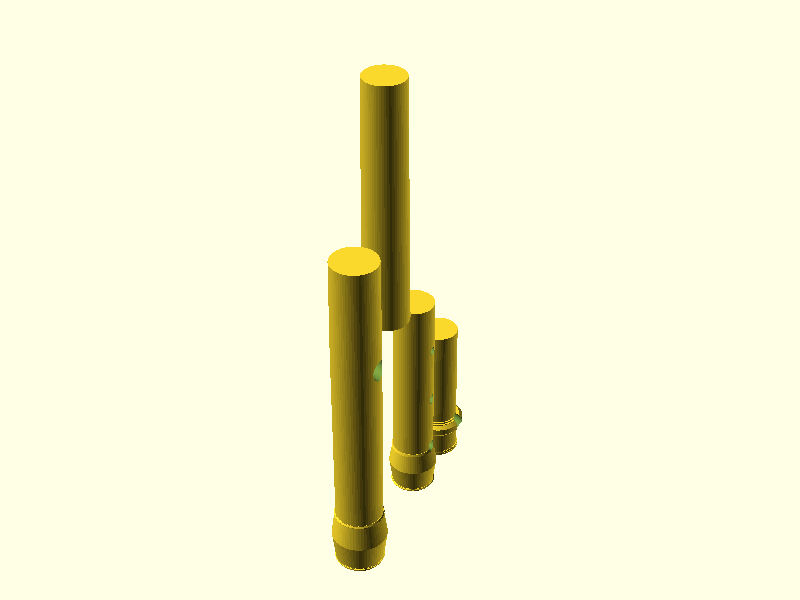
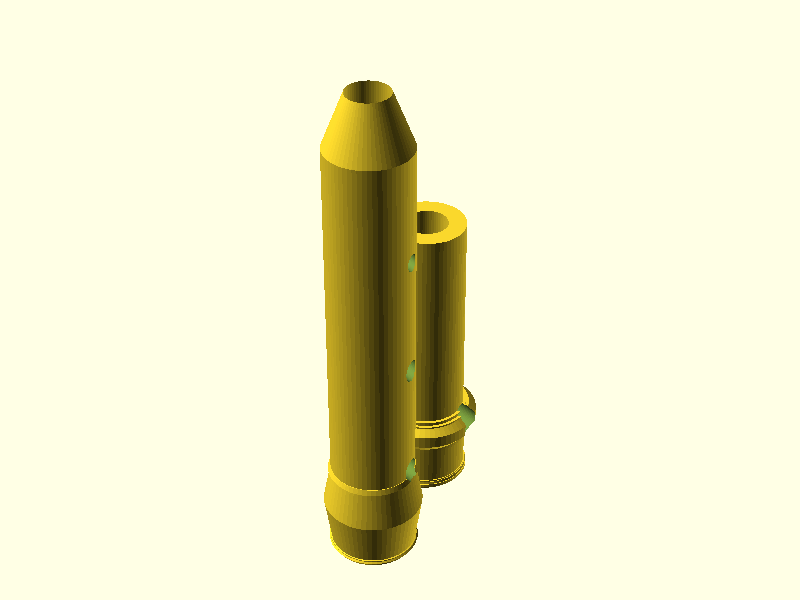
WIP combining bore and outside

Changed region(s): [[0.375, 0.09, 0.5938, 0.96]]

diff --git a/notebooks/docs/demo.html b/notebooks/docs/demo.html
@@ -130,31 +130,18 @@
 </code></pre></div></div><div style="margin:15px;"><div><p>(export-stl-file "notebooks/lot.stl" "lot.scad")</p></div></div><div style="margin:15px;"><div><pre><code class="sourceCode language-clojure source-clojure bg-light">(export-png-file  &quot;notebooks/lot-cut.png&quot; &quot;lot-cut.scad&quot;)</code></pre></div></div><div style="margin:15px;"><div><pre><code class="sourceCode language-clojure printed-clojure">{:exit 0,
  :out &quot;&quot;,
  :err
- &quot;Geometries in cache: 30\nGeometry cache size in bytes: 1338168\nCGAL Polyhedrons in cache: 6\nCGAL cache size in bytes: 73983896\nTotal rendering time: 0:00:13.311\n   Top level object is a 3D object:\n   Simple:        yes\n   Vertices:     4949\n   Halfedges:   23954\n   Edges:       11977\n   Halffacets:  14060\n   Facets:       7030\n   Volumes:         2\n&quot;}
+ &quot;Geometries in cache: 30\nGeometry cache size in bytes: 1338168\nCGAL Polyhedrons in cache: 6\nCGAL cache size in bytes: 73983896\nTotal rendering time: 0:00:11.990\n   Top level object is a 3D object:\n   Simple:        yes\n   Vertices:     4949\n   Halfedges:   23954\n   Edges:       11977\n   Halffacets:  14060\n   Facets:       7030\n   Volumes:         2\n&quot;}
 </code></pre></div></div><div style="margin:15px;"><div><pre><code class="sourceCode language-clojure source-clojure bg-light">(kind/hiccup
   [:img {:src &quot;notebooks/lot.png&quot;}])</code></pre></div></div><div style="margin:15px;"><img src="notebooks/lot.png"></div><div style="margin:15px;"><div><pre><code class="sourceCode language-clojure source-clojure bg-light">(kind/hiccup
-  [:img {:src &quot;notebooks/lot-cut.png&quot;}])</code></pre></div></div><div style="margin:15px;"><img src="notebooks/lot-cut.png"></div><div style="margin:15px;"><div><p>TODO automatic convert Text base STL to binary STL closing hour through</p><h2 id="music-note">Music note</h2><h3 id="edn-format-list-of">edn format list of</h3><h4 id="putting-finger-on-holes-[{:hole-number}]">putting finger on holes [{:hole-number}]</h4><h4 id="blowing-speed-[{:speed-:time-}]">blowing speed [{:speed :time }]</h4><p>TODO we have issues on the post process edn (flute/org-to-flute-3d-model "../../flute-data/models/lot-dcm615.org")</p></div></div><div style="margin:15px;"><div><pre><code class="sourceCode language-clojure source-clojure bg-light">(flute/org-&gt;cad!  &quot;../../flute-data/models/lot-dcm615.org&quot; &quot;notebooks/org-lot.scad&quot;)</code></pre></div></div><div style="margin:15px;"><div><strong>OUT</strong><pre><code>{:head-joint {:bore-diameters [{:diameter 20.0, :position 0.0} {:diameter 20.0, :position 1.0} {:diameter 19.9, :position 15.0} {:diameter 19.8, :position 165.0} {:diameter 19.7, :position 175.0} {:diameter 19.6, :position 185.0} {:diameter 19.5, :position 191.0} {:diameter 19.5, :position 222.8}], :outside-diameters [{:position 222.8, :min 29.3, :max 29.1, :diameter 29.2} {:position 159.0, :min 30.25, :max 30.15, :diameter 30.2} {:position 47.8, :min 29.8, :max 29.5, :diameter 29.65} {:position 38.16, :min 29.85, :max 29.85, :diameter 29.85} {:position 38.15, :min 30.2, :max 30.2, :diameter 30.2} {:position 37.8, :min 30.2, :max 30.2, :diameter 30.2} {:position 36.8, :min 31.4, :max 31.4, :diameter 31.4} {:position 36.79, :min 31.0, :max 31.0, :diameter 31.0} {:position 36.25, :min 31.0, :max 31.0, :diameter 31.0} {:position 36.24, :min 30.6, :max 30.6, :diameter 30.6} {:position 20.2, :min 35.45, :max 35.05, :diameter 35.25} {:position 2.51, :min 30.8, :max 30.8, :diameter 30.8} {:position 2.5, :min 31.05, :max 31.05, :diameter 31.05} {:position 2.0, :min 31.05, :max 31.05, :diameter 31.05} {:position 1.9, :min 31.85, :max 31.85, :diameter 31.85} {:position 1.0, :min 30.0, :max 30.0, :diameter 30.0} {:position 0.0, :min 30.0, :max 30.0, :diameter 30.0}], :holes [{:longitudinal 12.0, :lateral 12.0, :position 159.0, :diameter 12.0}]}, :middle-joint {:bore-diameters [{:diameter 19.1, :position 0.0} {:diameter 19.1, :position 2.0} {:diameter 19.0, :position 34.0} {:diameter 18.9, :position 45.0} {:diameter 18.8, :position 52.0} {:diameter 18.7, :position 58.0} {:diameter 18.6, :position 63.0} {:diameter 18.5, :position 68.0} {:diameter 18.4, :position 72.0} {:diameter 18.3, :position 72.0} {:diameter 18.2, :position 80.0} {:diameter 18.1, :position 83.0} {:diameter 18.0, :position 86.0} {:diameter 17.9, :position 89.0} {:diameter 17.7, :position 101.0} {:diameter 17.6, :position 106.0} {:diameter 17.5, :position 110.0} {:diameter 17.4, :position 119.0} {:diameter 17.3, :position 125.0} {:diameter 17.1, :position 138.0} {:diameter 17.0, :position 142.5} {:diameter 16.9, :position 149.0} {:diameter 16.8, :position 156.0} {:diameter 16.7, :position 165.0} {:diameter 16.6, :position 170.0} {:diameter 16.5, :position 174.0} {:diameter 16.4, :position 180.0} {:diameter 16.3, :position 182.0} {:diameter 16.2, :position 186.0} {:diameter 16.1, :position 189.0} {:diameter 16.0, :position 191.0} {:diameter 15.9, :position 194.0} {:diameter 15.8, :position 208.0} {:diameter 15.9, :position 215.0}], :outside-diameters [{:position 159.05, :diameter 29.2} {:position 317.49, :diameter 26.0}], :holes [{:position 64.6, :longitudinal 6.9, :lateral 6.45, :diameter 6.675} {:position 102.0, :longitudinal 6.85, :lateral 6.5, :diameter 6.675} {:position 141.7, :longitudinal 5.75, :lateral 5.55, :diameter 5.65}]}, :right-hand-joint {:bore-diameters [{:diameter 15.4, :position 0.0} {:diameter 15.4, :position 29.0} {:diameter 15.3, :position 34.0} {:diameter 15.2, :position 51.0} {:diameter 15.1, :position 53.0} {:diameter 15.0, :position 55.0} {:diameter 14.9, :position 61.0} {:diameter 14.8, :position 68.0} {:diameter 14.7, :position 75.0} {:diameter 14.6, :position 80.0} {:diameter 14.5, :position 88.0} {:diameter 14.4, :position 93.0} {:diameter 14.3, :position 96.0} {:diameter 14.2, :position 98.0} {:diameter 14.1, :position 106.0} {:diameter 14.0, :position 111.0} {:diameter 13.9, :position 119.0} {:diameter 13.8, :position 128.0} {:diameter 13.7, :position 137.0} {:diameter 13.6, :position 142.5} {:diameter 13.5, :position 145.5} {:diameter 13.4, :position 152.0} {:diameter 13.3, :position 161.0}], :outside-diameters [{:position 0.0, :min 27.15, :max 27.15, :diameter 27.15} {:position 0.5, :min 27.15, :max 27.15, :diameter 27.15} {:position 1.2, :min 28.7, :max 28.7, :diameter 28.7} {:position 1.7, :min 27.9, :max 27.9, :diameter 27.9} {:position 2.0, :min 27.9, :max 27.9, :diameter 27.9} {:position 2.1, :min 27.2, :max 27.2, :diameter 27.2} {:position 17.2, :min 31.6, :max 31.5, :diameter 31.55} {:position 29.79, :min 27.0, :max 27.0, :diameter 27.0} {:position 29.8, :min 27.45, :max 27.45, :diameter 27.45} {:position 30.0, :min 28.3, :max 28.3, :diameter 28.3} {:position 31.7, :min 27.0, :max 27.0, :diameter 27.0} {:position 31.71, :min 26.68, :max 26.68, :diameter 26.68} {:position 144.4, :min 25.95, :max 26.95, :diameter 26.45}], :holes [{:position 40.15, :longitudinal 6.8, :lateral 6.5, :diameter 6.65} {:position 78.65, :longitudinal 6.35, :lateral 6.15, :diameter 6.25} {:position 116.9, :longitudinal 4.95, :lateral 4.9, :diameter 4.925}]}, :foot-joint {:bore-diameters [{:diameter 15.0, :position 0.0} {:diameter 15.0, :position 40.0} {:diameter 14.9, :position 45.0} {:diameter 14.8, :position 47.0} {:diameter 14.7, :position 50.0} {:diameter 14.6, :position 51.0} {:diameter 14.5, :position 55.0} {:diameter 14.4, :position 57.0} {:diameter 14.3, :position 60.0} {:diameter 14.1, :position 63.0} {:diameter 14.0, :position 66.0} {:diameter 13.9, :position 68.0} {:diameter 13.8, :position 70.0} {:diameter 13.7, :position 71.0} {:diameter 13.6, :position 73.0} {:diameter 13.5, :position 76.0} {:diameter 13.43, :position 78.0} {:diameter 13.43, :position 97.6}], :outside-diameters [{:position 0.0, :diameter 26.5} {:position 1.0, :diameter 26.8} {:position 1.01, :diameter 28.4} {:position 2.2, :diameter 28.4} {:position 2.21, :diameter 28.0} {:position 3.0, :diameter 27.7} {:position 3.01, :diameter 27.3} {:position 3.5, :diameter 27.3} {:position 3.51, :diameter 26.8} {:position 15.8, :diameter 26.9} {:position 15.81, :diameter 27.5} {:position 17.0, :diameter 27.5} {:position 17.01, :diameter 28.6} {:position 17.75, :diameter 28.6} {:position 21.0, :diameter 34.25} {:position 25.0, :diameter 34.25} {:position 27.0, :diameter 29.45} {:position 27.5, :diameter 29.45} {:position 27.51, :diameter 27.5} {:position 28.6, :diameter 27.5} {:position 28.61, :diameter 25.6} {:position 97.6, :diameter 24.75}], :holes [{:position 30.8, :longitudinal 9.1, :lateral 8.7, :diameter 8.9}]}, :model lot-dcm615}
-data
-[{:diameter 20.0, :position 0.0} {:diameter 20.0, :position 1.0} {:diameter 19.9, :position 15.0} {:diameter 19.8, :position 165.0} {:diameter 19.7, :position 175.0} {:diameter 19.6, :position 185.0} {:diameter 19.5, :position 191.0} {:diameter 19.5, :position 222.8}]
-new data
-({:diameter 19.5, :position 222.9000030517578} {:diameter 20.0, :position -0.1} {:diameter 20.0, :position 0.0} {:diameter 20.0, :position 1.0} {:diameter 19.9, :position 15.0} {:diameter 19.8, :position 165.0} {:diameter 19.7, :position 175.0} {:diameter 19.6, :position 185.0} {:diameter 19.5, :position 191.0} {:diameter 19.5, :position 222.8})
-data
-[{:diameter 15.0, :position 0.0} {:diameter 15.0, :position 40.0} {:diameter 14.9, :position 45.0} {:diameter 14.8, :position 47.0} {:diameter 14.7, :position 50.0} {:diameter 14.6, :position 51.0} {:diameter 14.5, :position 55.0} {:diameter 14.4, :position 57.0} {:diameter 14.3, :position 60.0} {:diameter 14.1, :position 63.0} {:diameter 14.0, :position 66.0} {:diameter 13.9, :position 68.0} {:diameter 13.8, :position 70.0} {:diameter 13.7, :position 71.0} {:diameter 13.6, :position 73.0} {:diameter 13.5, :position 76.0} {:diameter 13.43, :position 78.0} {:diameter 13.43, :position 97.6}]
-new data
-({:diameter 13.43, :position 97.69999847412109} {:diameter 15.0, :position -0.1} {:diameter 15.0, :position 0.0} {:diameter 15.0, :position 40.0} {:diameter 14.9, :position 45.0} {:diameter 14.8, :position 47.0} {:diameter 14.7, :position 50.0} {:diameter 14.6, :position 51.0} {:diameter 14.5, :position 55.0} {:diameter 14.4, :position 57.0} {:diameter 14.3, :position 60.0} {:diameter 14.1, :position 63.0} {:diameter 14.0, :position 66.0} {:diameter 13.9, :position 68.0} {:diameter 13.8, :position 70.0} {:diameter 13.7, :position 71.0} {:diameter 13.6, :position 73.0} {:diameter 13.5, :position 76.0} {:diameter 13.43, :position 78.0} {:diameter 13.43, :position 97.6})
-data
-[{:diameter 19.1, :position 0.0} {:diameter 19.1, :position 2.0} {:diameter 19.0, :position 34.0} {:diameter 18.9, :position 45.0} {:diameter 18.8, :position 52.0} {:diameter 18.7, :position 58.0} {:diameter 18.6, :position 63.0} {:diameter 18.5, :position 68.0} {:diameter 18.4, :position 72.0} {:diameter 18.3, :position 72.0} {:diameter 18.2, :position 80.0} {:diameter 18.1, :position 83.0} {:diameter 18.0, :position 86.0} {:diameter 17.9, :position 89.0} {:diameter 17.7, :position 101.0} {:diameter 17.6, :position 106.0} {:diameter 17.5, :position 110.0} {:diameter 17.4, :position 119.0} {:diameter 17.3, :position 125.0} {:diameter 17.1, :position 138.0} {:diameter 17.0, :position 142.5} {:diameter 16.9, :position 149.0} {:diameter 16.8, :position 156.0} {:diameter 16.7, :position 165.0} {:diameter 16.6, :position 170.0} {:diameter 16.5, :position 174.0} {:diameter 16.4, :position 180.0} {:diameter 16.3, :position 182.0} {:diameter 16.2, :position 186.0} {:diameter 16.1, :position 189.0} {:diameter 16.0, :position 191.0} {:diameter 15.9, :position 194.0} {:diameter 15.8, :position 208.0} {:diameter 15.9, :position 215.0}]
-new data
-({:diameter 15.9, :position 215.1} {:diameter 19.1, :position -0.1} {:diameter 19.1, :position 0.0} {:diameter 19.1, :position 2.0} {:diameter 19.0, :position 34.0} {:diameter 18.9, :position 45.0} {:diameter 18.8, :position 52.0} {:diameter 18.7, :position 58.0} {:diameter 18.6, :position 63.0} {:diameter 18.5, :position 68.0} {:diameter 18.4, :position 72.0} {:diameter 18.3, :position 72.0} {:diameter 18.2, :position 80.0} {:diameter 18.1, :position 83.0} {:diameter 18.0, :position 86.0} {:diameter 17.9, :position 89.0} {:diameter 17.7, :position 101.0} {:diameter 17.6, :position 106.0} {:diameter 17.5, :position 110.0} {:diameter 17.4, :position 119.0} {:diameter 17.3, :position 125.0} {:diameter 17.1, :position 138.0} {:diameter 17.0, :position 142.5} {:diameter 16.9, :position 149.0} {:diameter 16.8, :position 156.0} {:diameter 16.7, :position 165.0} {:diameter 16.6, :position 170.0} {:diameter 16.5, :position 174.0} {:diameter 16.4, :position 180.0} {:diameter 16.3, :position 182.0} {:diameter 16.2, :position 186.0} {:diameter 16.1, :position 189.0} {:diameter 16.0, :position 191.0} {:diameter 15.9, :position 194.0} {:diameter 15.8, :position 208.0} {:diameter 15.9, :position 215.0})
-data
-[{:diameter 15.4, :position 0.0} {:diameter 15.4, :position 29.0} {:diameter 15.3, :position 34.0} {:diameter 15.2, :position 51.0} {:diameter 15.1, :position 53.0} {:diameter 15.0, :position 55.0} {:diameter 14.9, :position 61.0} {:diameter 14.8, :position 68.0} {:diameter 14.7, :position 75.0} {:diameter 14.6, :position 80.0} {:diameter 14.5, :position 88.0} {:diameter 14.4, :position 93.0} {:diameter 14.3, :position 96.0} {:diameter 14.2, :position 98.0} {:diameter 14.1, :position 106.0} {:diameter 14.0, :position 111.0} {:diameter 13.9, :position 119.0} {:diameter 13.8, :position 128.0} {:diameter 13.7, :position 137.0} {:diameter 13.6, :position 142.5} {:diameter 13.5, :position 145.5} {:diameter 13.4, :position 152.0} {:diameter 13.3, :position 161.0}]
-new data
-({:diameter 13.3, :position 161.1} {:diameter 15.4, :position -0.1} {:diameter 15.4, :position 0.0} {:diameter 15.4, :position 29.0} {:diameter 15.3, :position 34.0} {:diameter 15.2, :position 51.0} {:diameter 15.1, :position 53.0} {:diameter 15.0, :position 55.0} {:diameter 14.9, :position 61.0} {:diameter 14.8, :position 68.0} {:diameter 14.7, :position 75.0} {:diameter 14.6, :position 80.0} {:diameter 14.5, :position 88.0} {:diameter 14.4, :position 93.0} {:diameter 14.3, :position 96.0} {:diameter 14.2, :position 98.0} {:diameter 14.1, :position 106.0} {:diameter 14.0, :position 111.0} {:diameter 13.9, :position 119.0} {:diameter 13.8, :position 128.0} {:diameter 13.7, :position 137.0} {:diameter 13.6, :position 142.5} {:diameter 13.5, :position 145.5} {:diameter 13.4, :position 152.0} {:diameter 13.3, :position 161.0})
+  [:img {:src &quot;notebooks/lot-cut.png&quot;}])</code></pre></div></div><div style="margin:15px;"><img src="notebooks/lot-cut.png"></div><div style="margin:15px;"><div><p>TODO automatic convert Text base STL to binary STL closing hour through</p><h2 id="music-note">Music note</h2><h3 id="edn-format-list-of">edn format list of</h3><h4 id="putting-finger-on-holes-[{:hole-number}]">putting finger on holes [{:hole-number}]</h4><h4 id="blowing-speed-[{:speed-:time-}]">blowing speed [{:speed :time }]</h4><p>TODO we have issues on the post process edn (flute/org-to-flute-3d-model "../../flute-data/models/lot-dcm615.org")</p></div></div><div style="margin:15px;"><div><pre><code class="sourceCode language-clojure source-clojure bg-light">(flute/org-&gt;cad!  &quot;../../flute-data/models/lot-dcm615.org&quot; &quot;notebooks/org-lot.scad&quot;)</code></pre></div></div><div style="margin:15px;"><div><strong>OUT</strong><pre><code>({:position 222.8, :min 29.3, :max 29.1, :diameter 29.2} {:position 159.0, :min 30.25, :max 30.15, :diameter 30.2} {:position 47.8, :min 29.8, :max 29.5, :diameter 29.65} {:position 38.16, :min 29.85, :max 29.85, :diameter 29.85} {:position 38.15, :min 30.2, :max 30.2, :diameter 30.2} {:position 37.8, :min 30.2, :max 30.2, :diameter 30.2} {:position 36.8, :min 31.4, :max 31.4, :diameter 31.4} {:position 36.79, :min 31.0, :max 31.0, :diameter 31.0} {:position 36.25, :min 31.0, :max 31.0, :diameter 31.0} {:position 36.24, :min 30.6, :max 30.6, :diameter 30.6} {:position 20.2, :min 35.45, :max 35.05, :diameter 35.25} {:position 2.51, :min 30.8, :max 30.8, :diameter 30.8} {:position 2.5, :min 31.05, :max 31.05, :diameter 31.05} {:position 2.0, :min 31.05, :max 31.05, :diameter 31.05} {:position 1.9, :min 31.85, :max 31.85, :diameter 31.85} {:position 1.0, :min 30.0, :max 30.0, :diameter 30.0} {:position 0.0, :min 30.0, :max 30.0, :diameter 30.0} {:diameter 19.5, :position 222.8} {:diameter 19.5, :position 191.0} {:diameter 19.6, :position 185.0} {:diameter 19.7, :position 175.0} {:diameter 19.8, :position 165.0} {:diameter 19.9, :position 15.0} {:diameter 20.0, :position 1.0} {:diameter 20.0, :position 0.0})
+({:position 0.0, :diameter 26.5} {:position 1.0, :diameter 26.8} {:position 1.01, :diameter 28.4} {:position 2.2, :diameter 28.4} {:position 2.21, :diameter 28.0} {:position 3.0, :diameter 27.7} {:position 3.01, :diameter 27.3} {:position 3.5, :diameter 27.3} {:position 3.51, :diameter 26.8} {:position 15.8, :diameter 26.9} {:position 15.81, :diameter 27.5} {:position 17.0, :diameter 27.5} {:position 17.01, :diameter 28.6} {:position 17.75, :diameter 28.6} {:position 21.0, :diameter 34.25} {:position 25.0, :diameter 34.25} {:position 27.0, :diameter 29.45} {:position 27.5, :diameter 29.45} {:position 27.51, :diameter 27.5} {:position 28.6, :diameter 27.5} {:position 28.61, :diameter 25.6} {:position 97.6, :diameter 24.75} {:diameter 13.43, :position 97.6} {:diameter 13.43, :position 78.0} {:diameter 13.5, :position 76.0} {:diameter 13.6, :position 73.0} {:diameter 13.7, :position 71.0} {:diameter 13.8, :position 70.0} {:diameter 13.9, :position 68.0} {:diameter 14.0, :position 66.0} {:diameter 14.1, :position 63.0} {:diameter 14.3, :position 60.0} {:diameter 14.4, :position 57.0} {:diameter 14.5, :position 55.0} {:diameter 14.6, :position 51.0} {:diameter 14.7, :position 50.0} {:diameter 14.8, :position 47.0} {:diameter 14.9, :position 45.0} {:diameter 15.0, :position 40.0} {:diameter 15.0, :position 0.0})
+({:position 159.05, :diameter 29.2} {:position 317.49, :diameter 26.0} {:diameter 15.9, :position 215.0} {:diameter 15.8, :position 208.0} {:diameter 15.9, :position 194.0} {:diameter 16.0, :position 191.0} {:diameter 16.1, :position 189.0} {:diameter 16.2, :position 186.0} {:diameter 16.3, :position 182.0} {:diameter 16.4, :position 180.0} {:diameter 16.5, :position 174.0} {:diameter 16.6, :position 170.0} {:diameter 16.7, :position 165.0} {:diameter 16.8, :position 156.0} {:diameter 16.9, :position 149.0} {:diameter 17.0, :position 142.5} {:diameter 17.1, :position 138.0} {:diameter 17.3, :position 125.0} {:diameter 17.4, :position 119.0} {:diameter 17.5, :position 110.0} {:diameter 17.6, :position 106.0} {:diameter 17.7, :position 101.0} {:diameter 17.9, :position 89.0} {:diameter 18.0, :position 86.0} {:diameter 18.1, :position 83.0} {:diameter 18.2, :position 80.0} {:diameter 18.3, :position 72.0} {:diameter 18.4, :position 72.0} {:diameter 18.5, :position 68.0} {:diameter 18.6, :position 63.0} {:diameter 18.7, :position 58.0} {:diameter 18.8, :position 52.0} {:diameter 18.9, :position 45.0} {:diameter 19.0, :position 34.0} {:diameter 19.1, :position 2.0} {:diameter 19.1, :position 0.0})
+({:position 0.0, :min 27.15, :max 27.15, :diameter 27.15} {:position 0.5, :min 27.15, :max 27.15, :diameter 27.15} {:position 1.2, :min 28.7, :max 28.7, :diameter 28.7} {:position 1.7, :min 27.9, :max 27.9, :diameter 27.9} {:position 2.0, :min 27.9, :max 27.9, :diameter 27.9} {:position 2.1, :min 27.2, :max 27.2, :diameter 27.2} {:position 17.2, :min 31.6, :max 31.5, :diameter 31.55} {:position 29.79, :min 27.0, :max 27.0, :diameter 27.0} {:position 29.8, :min 27.45, :max 27.45, :diameter 27.45} {:position 30.0, :min 28.3, :max 28.3, :diameter 28.3} {:position 31.7, :min 27.0, :max 27.0, :diameter 27.0} {:position 31.71, :min 26.68, :max 26.68, :diameter 26.68} {:position 144.4, :min 25.95, :max 26.95, :diameter 26.45} {:diameter 13.3, :position 161.0} {:diameter 13.4, :position 152.0} {:diameter 13.5, :position 145.5} {:diameter 13.6, :position 142.5} {:diameter 13.7, :position 137.0} {:diameter 13.8, :position 128.0} {:diameter 13.9, :position 119.0} {:diameter 14.0, :position 111.0} {:diameter 14.1, :position 106.0} {:diameter 14.2, :position 98.0} {:diameter 14.3, :position 96.0} {:diameter 14.4, :position 93.0} {:diameter 14.5, :position 88.0} {:diameter 14.6, :position 80.0} {:diameter 14.7, :position 75.0} {:diameter 14.8, :position 68.0} {:diameter 14.9, :position 61.0} {:diameter 15.0, :position 55.0} {:diameter 15.1, :position 53.0} {:diameter 15.2, :position 51.0} {:diameter 15.3, :position 34.0} {:diameter 15.4, :position 29.0} {:diameter 15.4, :position 0.0})
 </code></pre></div></div><div style="margin:15px;"><div><pre><code class="sourceCode language-clojure printed-clojure">nil
 </code></pre></div></div><div style="margin:15px;"><div><pre><code class="sourceCode language-clojure source-clojure bg-light">(export-png-file  &quot;notebooks/org-lot-cut.png&quot; &quot;notebooks/org-lot.scad&quot;)</code></pre></div></div><div style="margin:15px;"><div><pre><code class="sourceCode language-clojure printed-clojure">{:exit 0,
  :out &quot;&quot;,
  :err
- &quot;ERROR: The given mesh is not closed! Unable to convert to CGAL_Nef_Polyhedron.\nERROR: The given mesh is not closed! Unable to convert to CGAL_Nef_Polyhedron.\nERROR: The given mesh is not closed! Unable to convert to CGAL_Nef_Polyhedron.\nERROR: The given mesh is not closed! Unable to convert to CGAL_Nef_Polyhedron.\nGeometries in cache: 40\nGeometry cache size in bytes: 1606480\nCGAL Polyhedrons in cache: 15\nCGAL cache size in bytes: 36231184\nTotal rendering time: 0:00:04.619\n   Top level object is a 3D object:\n   Simple:        yes\n   Vertices:     4136\n   Halfedges:   19946\n   Edges:        9973\n   Halffacets:  11690\n   Facets:       5845\n   Volumes:         5\n&quot;}
+ &quot;ERROR: The given mesh is not closed! Unable to convert to CGAL_Nef_Polyhedron.\nGeometries in cache: 32\nGeometry cache size in bytes: 1345904\nCGAL Polyhedrons in cache: 15\nCGAL cache size in bytes: 69956464\nTotal rendering time: 0:00:08.653\n   Top level object is a 3D object:\n   Simple:        yes\n   Vertices:     7996\n   Halfedges:   39484\n   Edges:       19742\n   Halffacets:  23472\n   Facets:      11736\n   Volumes:         4\n&quot;}
 </code></pre></div></div><div style="margin:15px;"><div><pre><code class="sourceCode language-clojure source-clojure bg-light">(kind/hiccup
  [:img {:src &quot;notebooks/org-lot-cut.png&quot;}])</code></pre></div></div><div style="margin:15px;"><img src="notebooks/org-lot-cut.png"></div><div style="margin:15px;"><div style="background-color:grey;height:2px;width:100%;"></div></div><div style="margin:15px;"><div><pre><small><small>source: notebooks/notebooks/demo.clj</small></small></pre></div></div></div></div></div></div></div><script type="text/javascript">/*!
   Highlight.js v11.9.0 (git: b7ec4bfafc)

diff --git a/notebooks/docs/flute.html b/notebooks/docs/flute.html
@@ -56,9 +56,8 @@
   [data]
   [(map :diameter data)
    (map :position data)])</code></pre></div></div><div style="margin:15px;"><div><pre><code class="sourceCode language-clojure source-clojure bg-light">(defn polygon-rotator
-  ([data] (let [[points-diameter
-                 points-position] (extract-positions-diameters data)]
-            (polygon-rotator points-diameter points-position)))
+  ([data] (m/extrude-rotate {:fn 64}
+                            (m/polygon (map (fn [point][(/ (:diameter point) 2) (:position point)]) data))))
   ([points-diameter points-position]
    (let [number-of-points (dec (count points-position))
          profile-points (concat
@@ -124,8 +123,8 @@
   (let [ordered-data (sort-by :position data)
         start (first ordered-data)
         end (last ordered-data)
-        new-data (conj (concat [{:diameter (:diameter start) :position (- (:position start) 0.1)}] data) 
-        {:diameter (:diameter end) :position (+ (:position end) 0.1)})]
+        new-data (conj (into [] (concat [{:diameter 0 :position (- (:position start) 0.1)}] data) )
+        {:diameter 0 :position (+ (:position end) 0.1)})]
         (println &quot;data&quot;)
         (println data)
         (println &quot;new data&quot;)
@@ -201,21 +200,24 @@
  [15.9 194.0]
  [15.8 208.0]
  [15.9 215.0])
-</code></pre></div></div><div style="margin:15px;"><div><pre><code class="sourceCode language-clojure source-clojure bg-light">(def bore-section-rr (bore-section (sort-by #(:position %) bore-data)))</code></pre></div></div><div style="margin:15px;"><div><strong>OUT</strong><pre><code>data
-({:diameter 19.1, :position 0.0} {:diameter 19.1, :position 2.0} {:diameter 19.0, :position 34.0} {:diameter 18.9, :position 45.0} {:diameter 18.8, :position 52.0} {:diameter 18.7, :position 58.0} {:diameter 18.6, :position 63.0} {:diameter 18.5, :position 68.0} {:diameter 18.4, :position 72.0} {:diameter 18.3, :position 72.0} {:diameter 18.2, :position 80.0} {:diameter 18.1, :position 83.0} {:diameter 18.0, :position 86.0} {:diameter 17.9, :position 89.0} {:diameter 17.7, :position 101.0} {:diameter 17.6, :position 106.0} {:diameter 17.5, :position 110.0} {:diameter 17.4, :position 119.0} {:diameter 17.3, :position 125.0} {:diameter 17.1, :position 138.0} {:diameter 17.0, :position 142.5} {:diameter 16.9, :position 149.0} {:diameter 16.8, :position 156.0} {:diameter 16.7, :position 165.0} {:diameter 16.6, :position 170.0} {:diameter 16.5, :position 174.0} {:diameter 16.4, :position 180.0} {:diameter 16.3, :position 182.0} {:diameter 16.2, :position 186.0} {:diameter 16.1, :position 189.0} {:diameter 16.0, :position 191.0} {:diameter 15.9, :position 194.0} {:diameter 15.8, :position 208.0} {:diameter 15.9, :position 215.0})
+</code></pre></div></div><div style="margin:15px;"><div><pre><code class="sourceCode language-clojure source-clojure bg-light">(def bore-section-rr (bore-section bore-data))</code></pre></div></div><div style="margin:15px;"><div><strong>OUT</strong><pre><code>data
+[{:diameter 19.1, :position 0.0} {:diameter 19.1, :position 2.0} {:diameter 19.0, :position 34.0} {:diameter 18.9, :position 45.0} {:diameter 18.8, :position 52.0} {:diameter 18.7, :position 58.0} {:diameter 18.6, :position 63.0} {:diameter 18.5, :position 68.0} {:diameter 18.4, :position 72.0} {:diameter 18.3, :position 72.0} {:diameter 18.2, :position 80.0} {:diameter 18.1, :position 83.0} {:diameter 18.0, :position 86.0} {:diameter 17.9, :position 89.0} {:diameter 17.7, :position 101.0} {:diameter 17.6, :position 106.0} {:diameter 17.5, :position 110.0} {:diameter 17.4, :position 119.0} {:diameter 17.3, :position 125.0} {:diameter 17.1, :position 138.0} {:diameter 17.0, :position 142.5} {:diameter 16.9, :position 149.0} {:diameter 16.8, :position 156.0} {:diameter 16.7, :position 165.0} {:diameter 16.6, :position 170.0} {:diameter 16.5, :position 174.0} {:diameter 16.4, :position 180.0} {:diameter 16.3, :position 182.0} {:diameter 16.2, :position 186.0} {:diameter 16.1, :position 189.0} {:diameter 16.0, :position 191.0} {:diameter 15.9, :position 194.0} {:diameter 15.8, :position 208.0} {:diameter 15.9, :position 215.0}]
 new data
-({:diameter 15.9, :position 215.1} {:diameter 19.1, :position -0.1} {:diameter 19.1, :position 0.0} {:diameter 19.1, :position 2.0} {:diameter 19.0, :position 34.0} {:diameter 18.9, :position 45.0} {:diameter 18.8, :position 52.0} {:diameter 18.7, :position 58.0} {:diameter 18.6, :position 63.0} {:diameter 18.5, :position 68.0} {:diameter 18.4, :position 72.0} {:diameter 18.3, :position 72.0} {:diameter 18.2, :position 80.0} {:diameter 18.1, :position 83.0} {:diameter 18.0, :position 86.0} {:diameter 17.9, :position 89.0} {:diameter 17.7, :position 101.0} {:diameter 17.6, :position 106.0} {:diameter 17.5, :position 110.0} {:diameter 17.4, :position 119.0} {:diameter 17.3, :position 125.0} {:diameter 17.1, :position 138.0} {:diameter 17.0, :position 142.5} {:diameter 16.9, :position 149.0} {:diameter 16.8, :position 156.0} {:diameter 16.7, :position 165.0} {:diameter 16.6, :position 170.0} {:diameter 16.5, :position 174.0} {:diameter 16.4, :position 180.0} {:diameter 16.3, :position 182.0} {:diameter 16.2, :position 186.0} {:diameter 16.1, :position 189.0} {:diameter 16.0, :position 191.0} {:diameter 15.9, :position 194.0} {:diameter 15.8, :position 208.0} {:diameter 15.9, :position 215.0})
+[{:diameter 0, :position -0.1} {:diameter 19.1, :position 0.0} {:diameter 19.1, :position 2.0} {:diameter 19.0, :position 34.0} {:diameter 18.9, :position 45.0} {:diameter 18.8, :position 52.0} {:diameter 18.7, :position 58.0} {:diameter 18.6, :position 63.0} {:diameter 18.5, :position 68.0} {:diameter 18.4, :position 72.0} {:diameter 18.3, :position 72.0} {:diameter 18.2, :position 80.0} {:diameter 18.1, :position 83.0} {:diameter 18.0, :position 86.0} {:diameter 17.9, :position 89.0} {:diameter 17.7, :position 101.0} {:diameter 17.6, :position 106.0} {:diameter 17.5, :position 110.0} {:diameter 17.4, :position 119.0} {:diameter 17.3, :position 125.0} {:diameter 17.1, :position 138.0} {:diameter 17.0, :position 142.5} {:diameter 16.9, :position 149.0} {:diameter 16.8, :position 156.0} {:diameter 16.7, :position 165.0} {:diameter 16.6, :position 170.0} {:diameter 16.5, :position 174.0} {:diameter 16.4, :position 180.0} {:diameter 16.3, :position 182.0} {:diameter 16.2, :position 186.0} {:diameter 16.1, :position 189.0} {:diameter 16.0, :position 191.0} {:diameter 15.9, :position 194.0} {:diameter 15.8, :position 208.0} {:diameter 15.9, :position 215.0} {:diameter 0, :position 215.1}]
 </code></pre></div></div><div style="margin:15px;"><div><pre><code class="sourceCode language-clojure source-clojure bg-light">(render-code-model bore-section-rr &quot;test2.scad&quot;)</code></pre></div></div><div style="margin:15px;"><div><pre><code class="sourceCode language-clojure printed-clojure">nil
 </code></pre></div></div><div style="margin:15px;"><div><p>TODO adding cork spec to the flute schema</p></div></div><div style="margin:15px;"><div><pre><code class="sourceCode language-clojure source-clojure bg-light">(defn flute-section
   [data]
-  (let [validation-result (mal/validate e2e/joint data)]
+  (let [validation-result (mal/validate e2e/joint data)
+        section-data (concat (:outside-diameters data)
+                             (reverse (:bore-diameters data)))]
+    (println  section-data)
     (if validation-result
       (m/with-fn 60
-                 (m/union
-                   (m/difference
-                     (polygon-rotator (:outside-diameters data))
-                     (bore-section (:bore-diameters data))
-                     (finger-holes (:holes data)))))
+        (m/union
+         (m/difference
+          (polygon-rotator section-data)
+                     ;(bore-section (:bore-diameters data))
+          (finger-holes (:holes data)))))
       ;; TODO else should raise exception
       (throw (Exception. (:errors (mal/explain e2e/joint data)))))))</code></pre></div></div><div style="margin:15px;"><div><p>define sections for each part of the model</p></div></div><div style="margin:15px;"><div><pre><code class="sourceCode language-clojure source-clojure bg-light">(defn flute-model
   [data]
@@ -230,7 +232,6 @@ new data
 )))</code></pre></div></div><div style="margin:15px;"><div><pre><code class="sourceCode language-clojure source-clojure bg-light">(defn org-to-flute-3d-model [org-path]
   (let [data (e2e/org-to-edn org-path)
         flute-data-validated? (mal/validate e2e/flute data)]
-    (println data)    
     (if flute-data-validated?
       (flute-model data)
        (throw (Exception. (mal/explain e2e/flute data))))))</code></pre></div></div><div style="margin:15px;"><div><p>single lot model is build through assembly of these parts</p></div></div><div style="margin:15px;"><div><pre><code class="sourceCode language-clojure source-clojure bg-light">(defn org-&gt;cad! [org-path cad-path]
